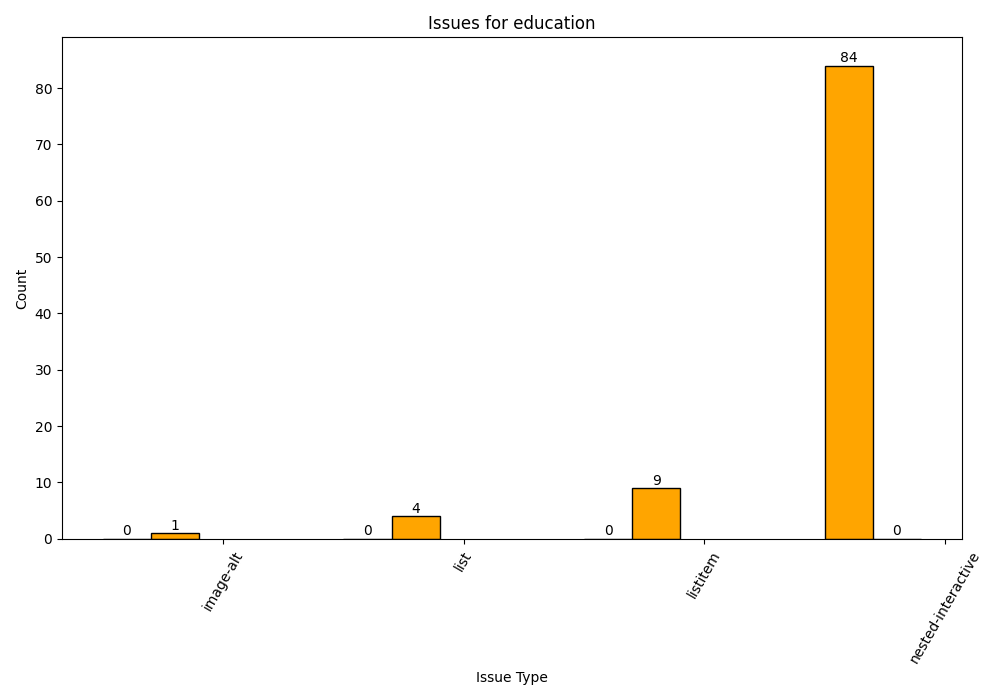
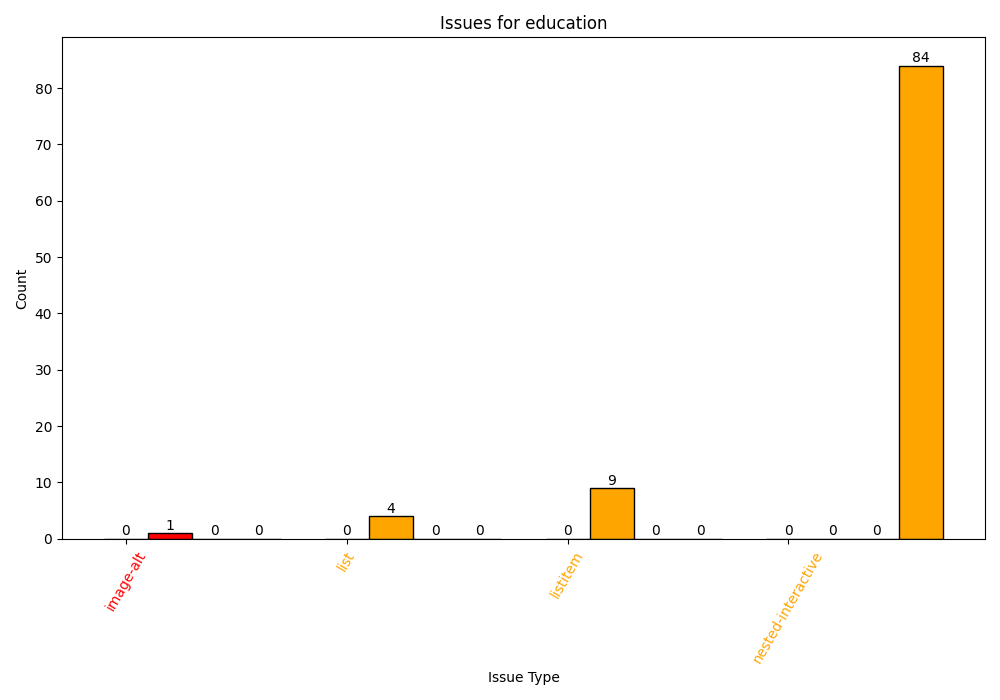
.

diff --git a/Praca magisterska/results/axe/visualize.py b/Praca magisterska/results/axe/visualize.py
@@ -4,120 +4,107 @@ import matplotlib.pyplot as plt
 import math
 import numpy as np  
 
-# Define the list of file names
 file_names = ['bigsize', 'courier', 'ecommerce', 'education', 'entertainment', 'gov', 'healthcare', 'news', 'nonprofit', 'mediumsize', 'smallsize', 'socialmedia']
-# file_names = ['socialmedia']
+# file_names = ['education']
 
-severity_colors = {
-    "critical": "red",
-    "serious": "orange",
-}
-severity_hatches = {
-    "critical": "x",
-    "serious": "/",
-}
 
-# Iterate over each file
 for file_name in file_names:
-    # Create the directory for the current file if it doesn't exist
+    json_file_names = set()
     folder_name = f"{file_name}_graphs"
     if not os.path.exists(folder_name):
         os.makedirs(folder_name)
 
-    # Initialize dictionaries to store data for this file
     all_issues = set()
     file_issues = {}
 
-    # Read data from the file
     with open(f"{file_name}.txt", "r") as file:
         data = file.read()
 
-    # Split the data into sections
     sections = re.split(r"[\w]+\\", data)[1:]
 
-    # Parse each section
     for section in sections:
         lines = section.split("\n")
 
-        # Extract the JSON file name
         json_file_name = lines[0].split("_")[0]
+        json_file_names.add(json_file_name);
 
-        # Find and parse Critical Issues
-        critical_index = lines.index("Critical Issues:") + 1 if "Critical Issues:" in lines else len(lines)
-        end_critical_index = lines.index("Serious Issues:") if "Serious Issues:" in lines else len(lines)
-        critical_issues_data = lines[critical_index:end_critical_index]
+        if "Critical Issues:" in lines:
+            critical_index = lines.index("Critical Issues:") + 1
+            end_critical_index = lines.index("Serious Issues:") if "Serious Issues:" in lines else len(lines)
+            critical_issues_data = lines[critical_index:end_critical_index]
 
-        for issue_data in critical_issues_data:
-            if ";" in issue_data:
-                issue, count, description = issue_data.strip().split(":")
-                count = int(count.strip())
-                all_issues.add(issue.strip())
-                file_issues.setdefault(json_file_name, {}).setdefault(issue.strip(), {}).setdefault('count', 0)
-                file_issues.setdefault(json_file_name, {}).setdefault(issue.strip(), {}).setdefault('severity', 'critical')
-                x = file_issues[json_file_name][issue.strip()]
-                file_issues[json_file_name][issue.strip()]["count"] += count
-                file_issues[json_file_name][issue.strip()]["severity"] = "critical"
+            if all(data == '' for data in critical_issues_data): 
+                file_issues.setdefault(json_file_name, {})
 
-        # Find and parse Serious Issues
-        serious_index = lines.index("Serious Issues:") + 1 if "Serious Issues:" in lines else len(lines)
-        serious_issues_data = lines[serious_index:]
+            for issue_data in critical_issues_data:
+                if ";" in issue_data:
+                    issue, count, description = issue_data.strip().split(":")
+                    count = int(count.strip())
+                    all_issues.add(issue.strip())
+                    file_issues.setdefault(json_file_name, {}).setdefault(issue.strip(), {}).setdefault('count', 0)
+                    file_issues.setdefault(json_file_name, {}).setdefault(issue.strip(), {}).setdefault('color', 'red')
+                    file_issues[json_file_name][issue.strip()]["count"] += count
 
-        for issue_data in serious_issues_data:
-            if ";" in issue_data:
-                issue, count, description = issue_data.strip().split(":")
-                count = int(count.strip())
-                all_issues.add(issue.strip())
-                file_issues.setdefault(json_file_name, {}).setdefault(issue.strip(), {}).setdefault('count', 0)
-                file_issues.setdefault(json_file_name, {}).setdefault(issue.strip(), {}).setdefault('severity', 'critical')
-                file_issues[json_file_name][issue.strip()]["count"] += count
-                file_issues[json_file_name][issue.strip()]["severity"] = "serious"
+        if "Serious Issues:" in lines:
+            serious_index = lines.index("Serious Issues:") + 1
+            serious_issues_data = lines[serious_index:]
 
-    # Convert the set of all issues to a sorted list
+            for issue_data in serious_issues_data:
+                if ";" in issue_data:
+                    issue, count, description = issue_data.strip().split(":")
+                    count = int(count.strip())
+                    all_issues.add(issue.strip())
+                    file_issues.setdefault(json_file_name, {}).setdefault(issue.strip(), {}).setdefault('count', 0)
+                    file_issues.setdefault(json_file_name, {}).setdefault(issue.strip(), {}).setdefault('color', 'orange')
+                    file_issues[json_file_name][issue.strip()]["count"] += count
+
     all_issues = sorted(list(all_issues))
-
-    # Calculate the maximum total count among all issues for setting the y-axis size
     max_total_count = max([sum(file_issues.get(json_file, {}).get(issue, {}).get("count", 0) for json_file in file_issues.keys()) for issue in all_issues], default=0)
+    max_total_count = math.ceil(max_total_count) + 5
 
-    # Round up the maximum total count to the nearest full number
-    max_total_count = math.ceil(max_total_count)
+    plt.figure(figsize=(10, 7))
+    total_issue_counts = [sum(file_issues.get(json_file, {}).get(issue, {}).get("count", 0) for json_file in file_issues.keys()) for issue in all_issues]    
+    colors_arrays = [[file_issues.get(json_file, {}).get(issue, {}).get("color", "") for json_file in file_issues.keys()] for issue in all_issues]
 
-    # Add a little space between the topmost number and the top border
-    max_total_count += 5
+    colors = [];
+    for subarr in colors_arrays:
+        if any(item == 'red' for item in subarr):
+            colors.append('red');
+        else:
+            colors.append('orange');
 
-    # Plotting Total Issues
-    # plt.figure(figsize=(12, 6))
-    # total_issue_counts = [sum(file_issues.get(json_file, {}).get(issue, {}).get("count", 0) for json_file in file_issues.keys()) for issue in all_issues]
-    # colors = [severity_colors[file_issues.get(json_file, {}).get(issue, {"severity": "serious"})["severity"]] for json_file in file_issues.keys() for issue in all_issues]
-    # # hatches = [severity_hatches[file_issues.get(json_file, {}).get(issue, {"severity": "serious"})["severity"]] for json_file in file_issues.keys() for issue in all_issues]
-    # plt.bar(all_issues, total_issue_counts, edgecolor='black', color=colors)
-    # plt.title(f'Total Issues for {file_name}')
-    # plt.xlabel('Issue Type')
-    # plt.ylabel('Count')
-    # plt.xticks(rotation=90)
-    # plt.ylim(0, max_total_count)  # Set the y-axis limits using the maximum total count
-    # plt.tight_layout()
-    # for i, count in enumerate(total_issue_counts):
-    #     plt.text(i, count + 0.1, str(count), ha='center', va='bottom')
-    # plt.savefig(os.path.join(folder_name, 'total_issues.png'))  # Save total issues plot to a file in the current folder
-    # plt.close()
+    if not all_issues:
+        total_issue_counts = [0] * len(total_issue_counts)
 
-    # Plotting Issues for each JSON file
+    plt.bar(all_issues, total_issue_counts, edgecolor='black', color=colors)
+    
+    for ticklabel, tickcolor in zip(plt.gca().get_xticklabels(), colors):
+        ticklabel.set_color(tickcolor)
+
+    plt.title(f'Total Issues for {file_name}')
+    plt.xlabel('Issue Type')
+    plt.ylabel('Count')
+    plt.xticks(rotation=90)
+    plt.ylim(0, max_total_count)  # Set the y-axis limits using the maximum total count
+    plt.tight_layout()
+    for i, count in enumerate(total_issue_counts):
+        plt.text(i, count + 0.1, str(count), ha='center', va='bottom')
+    plt.savefig(os.path.join(folder_name, 'total_issues.png'))  # Save total issues plot to a file in the current folder
+    plt.close()
+
     idx = -0.4
     plt.figure(figsize=(10, 7))
     X_axis = np.arange(len(all_issues))
-    print(f"{all_issues}")
-    print(f"{X_axis}")
     max_count = 0
 
-    for json_file_name in file_issues.keys():
+    print(f"{json_file_names}")
+    for json_file_name in json_file_names:
         individual_issue_counts = [file_issues[json_file_name].get(issue, {}).get("count", 0) for issue in all_issues]
+
         maxtemp = max(individual_issue_counts)
         if maxtemp > max_count:
             max_count = maxtemp
-        # print(f"{individual_issue_counts}")
-        
-        colors = [severity_colors[file_issues.get(json_file, {}).get(issue, {"severity": "serious"})["severity"]] for json_file in file_issues.keys() for issue in all_issues]
-        # hatches = [severity_hatches[file_issues.get(json_file, {}).get(issue, {"severity": "serious"})["severity"]] for json_file in file_issues.keys() for issue in all_issues]
+
         plt.bar(X_axis + idx, individual_issue_counts, 0.2, edgecolor='black', color=colors)
         for i, count in enumerate(individual_issue_counts):
             plt.text(i + idx, count + 0.1, str(count), ha='center', va='bottom')
@@ -128,6 +115,10 @@ for file_name in file_names:
     plt.xlabel('Issue Type')
     plt.xticks(X_axis-idx, all_issues) 
     plt.xticks(rotation=60)
+
+    for ticklabel, tickcolor in zip(plt.gca().get_xticklabels(), colors):
+        ticklabel.set_color(tickcolor)
+
     plt.ylim(0, max_count + 5)  # Set the y-axis limits using the maximum total count
     plt.tight_layout()
     plt.savefig(os.path.join(folder_name, f'{folder_name}_issues.png'))  # Save individual file issues plot to a file in the current folder

diff --git a/Praca magisterska/results/axe/visualize copy.py b/Praca magisterska/results/axe/visualize copy.py
@@ -2,27 +2,16 @@ import os
 import re
 import matplotlib.pyplot as plt
 import math
+import numpy as np  
 
-# Define the list of file names
 file_names = ['bigsize', 'courier', 'ecommerce', 'education', 'entertainment', 'gov', 'healthcare', 'news', 'nonprofit', 'mediumsize', 'smallsize', 'socialmedia']
+file_names = ['education']
 
-severity_colors = {
-    "critical": "red",
-    "serious": "orange",
-}
-severity_hatches = {
-    "critical": "x",
-    "serious": "/",
-}
-
-# Iterate over each file
 for file_name in file_names:
-    # Create the directory for the current file if it doesn't exist
     folder_name = f"{file_name}_graphs"
     if not os.path.exists(folder_name):
         os.makedirs(folder_name)
 
-    # Initialize dictionaries to store data for this file
     all_issues = set()
     file_issues = {}
 
@@ -51,10 +40,9 @@ for file_name in file_names:
                 count = int(count.strip())
                 all_issues.add(issue.strip())
                 file_issues.setdefault(json_file_name, {}).setdefault(issue.strip(), {}).setdefault('count', 0)
-                file_issues.setdefault(json_file_name, {}).setdefault(issue.strip(), {}).setdefault('severity', 'critical')
+                file_issues.setdefault(json_file_name, {}).setdefault(issue.strip(), {}).setdefault('color', 'red')
                 x = file_issues[json_file_name][issue.strip()]
                 file_issues[json_file_name][issue.strip()]["count"] += count
-                file_issues[json_file_name][issue.strip()]["severity"] = "critical"
 
         # Find and parse Serious Issues
         serious_index = lines.index("Serious Issues:") + 1 if "Serious Issues:" in lines else len(lines)
@@ -66,32 +54,35 @@ for file_name in file_names:
                 count = int(count.strip())
                 all_issues.add(issue.strip())
                 file_issues.setdefault(json_file_name, {}).setdefault(issue.strip(), {}).setdefault('count', 0)
-                file_issues.setdefault(json_file_name, {}).setdefault(issue.strip(), {}).setdefault('severity', 'critical')
+                file_issues.setdefault(json_file_name, {}).setdefault(issue.strip(), {}).setdefault('color', 'orange')
                 file_issues[json_file_name][issue.strip()]["count"] += count
-                file_issues[json_file_name][issue.strip()]["severity"] = "serious"
 
     # Convert the set of all issues to a sorted list
     all_issues = sorted(list(all_issues))
-
-    # Calculate the maximum total count among all issues for setting the y-axis size
     max_total_count = max([sum(file_issues.get(json_file, {}).get(issue, {}).get("count", 0) for json_file in file_issues.keys()) for issue in all_issues], default=0)
-
-    # Round up the maximum total count to the nearest full number
-    max_total_count = math.ceil(max_total_count)
-
-    # Add a little space between the topmost number and the top border
-    max_total_count += 5
+    max_total_count = math.ceil(max_total_count) + 5
 
     # Plotting Total Issues
-    plt.figure(figsize=(12, 6))
-    total_issue_counts = [sum(file_issues.get(json_file, {}).get(issue, {}).get("count", 0) for json_file in file_issues.keys()) for issue in all_issues]
-    colors = [severity_colors[file_issues.get(json_file, {}).get(issue, {"severity": "serious"})["severity"]] for json_file in file_issues.keys() for issue in all_issues]
-    # hatches = [severity_hatches[file_issues.get(json_file, {}).get(issue, {"severity": "serious"})["severity"]] for json_file in file_issues.keys() for issue in all_issues]
+    plt.figure(figsize=(10, 7))
+    total_issue_counts = [sum(file_issues.get(json_file, {}).get(issue, {}).get("count", 0) for json_file in file_issues.keys()) for issue in all_issues]    
+    colors_arrays = [[file_issues.get(json_file, {}).get(issue, {}).get("color", "") for json_file in file_issues.keys()] for issue in all_issues]
+
+    colors = [];
+    for subarr in colors_arrays:
+        if any(item == 'red' for item in subarr):
+            colors.append('red');
+        else:
+            colors.append('orange');
+        
     plt.bar(all_issues, total_issue_counts, edgecolor='black', color=colors)
+    
+    for ticklabel, tickcolor in zip(plt.gca().get_xticklabels(), colors):
+        ticklabel.set_color(tickcolor)
+
     plt.title(f'Total Issues for {file_name}')
     plt.xlabel('Issue Type')
     plt.ylabel('Count')
-    plt.xticks(rotation=45)
+    plt.xticks(rotation=90)
     plt.ylim(0, max_total_count)  # Set the y-axis limits using the maximum total count
     plt.tight_layout()
     for i, count in enumerate(total_issue_counts):
@@ -100,19 +91,34 @@ for file_name in file_names:
     plt.close()
 
     # Plotting Issues for each JSON file
+    idx = -0.4
+    plt.figure(figsize=(10, 7))
+    X_axis = np.arange(len(all_issues))
+    max_count = 0
+
     for json_file_name in file_issues.keys():
-        plt.figure(figsize=(12, 10))
         individual_issue_counts = [file_issues[json_file_name].get(issue, {}).get("count", 0) for issue in all_issues]
-        colors = [severity_colors[file_issues.get(json_file, {}).get(issue, {"severity": "serious"})["severity"]] for json_file in file_issues.keys() for issue in all_issues]
-        # hatches = [severity_hatches[file_issues.get(json_file, {}).get(issue, {"severity": "serious"})["severity"]] for json_file in file_issues.keys() for issue in all_issues]
-        plt.bar(all_issues, total_issue_counts, edgecolor='black', color=colors)
-        plt.title(f"Issues for {json_file_name}")
-        plt.xlabel('Issue Type')
-        plt.ylabel('Count')
-        plt.xticks(rotation=90)
-        plt.ylim(0, max_total_count)  # Set the y-axis limits using the maximum total count
-        plt.tight_layout()
+
+        maxtemp = max(individual_issue_counts)
+        if maxtemp > max_count:
+            max_count = maxtemp
+
+        plt.bar(X_axis + idx, individual_issue_counts, 0.2, edgecolor='black', color=colors)
         for i, count in enumerate(individual_issue_counts):
-            plt.text(i, count + 0.1, str(count), ha='center', va='bottom')
-        plt.savefig(os.path.join(folder_name, f'{json_file_name}_issues.png'))  # Save individual file issues plot to a file in the current folder
-        plt.close()
+            plt.text(i + idx, count + 0.1, str(count), ha='center', va='bottom')
+        idx += 0.2
+
+    
+    plt.title(f"Issues for {file_name}")
+    plt.ylabel('Count')
+    plt.xlabel('Issue Type')
+    plt.xticks(X_axis-idx, all_issues) 
+    plt.xticks(rotation=60)
+
+    for ticklabel, tickcolor in zip(plt.gca().get_xticklabels(), colors):
+        ticklabel.set_color(tickcolor)
+
+    plt.ylim(0, max_count + 5)  # Set the y-axis limits using the maximum total count
+    plt.tight_layout()
+    plt.savefig(os.path.join(folder_name, f'{folder_name}_issues.png'))  # Save individual file issues plot to a file in the current folder
+    plt.close()

diff --git a/Praca magisterska/results/axe/parse.py b/Praca magisterska/results/axe/parse.py
@@ -24,17 +24,23 @@ def process_file(file_path, output_file):
         out.write(f"{file_path}\n")
         
         # Write sorted errors
-        for impact, error_list in sorted_errors.items():
-            out.write(f"{impact.capitalize()} Issues:\n")
-            for error, count in error_list:
-                # Find the issue description by rule ID
-                description = next((issue['description'] for issue in data['allIssues'] if issue['ruleId'] == error), '')
-                out.write(f"{error}: {count}: {description};\n")
-            out.write(f"\n")
+        print(f"{sorted_errors}")
+        if len(sorted_errors):
+            for impact, error_list in sorted_errors.items():
+                out.write(f"{impact.capitalize()} Issues:\n")
+                for error, count in error_list:
+                    # Find the issue description by rule ID
+                    description = next((issue['description'] for issue in data['allIssues'] if issue['ruleId'] == error), '')
+                    out.write(f"{error}: {count}: {description};\n")
+                out.write(f"\n")
+        else:
+            out.write(f"Critical Issues:\n\n")
+            out.write(f"Serious Issues:\n")
+
 
 # Iterate over the folders and files
 folders = ['bigsize', 'courier', 'ecommerce', 'education', 'entertainment', 'gov', 'healthcare', 'news', 'nonprofit', 'mediumsize', 'smallsize', 'socialmedia']
-# folders = ['courier']
+# folders = ['education']
 for folder in folders:
     if os.path.isdir(folder):
         output_file = f"{folder}.txt"
